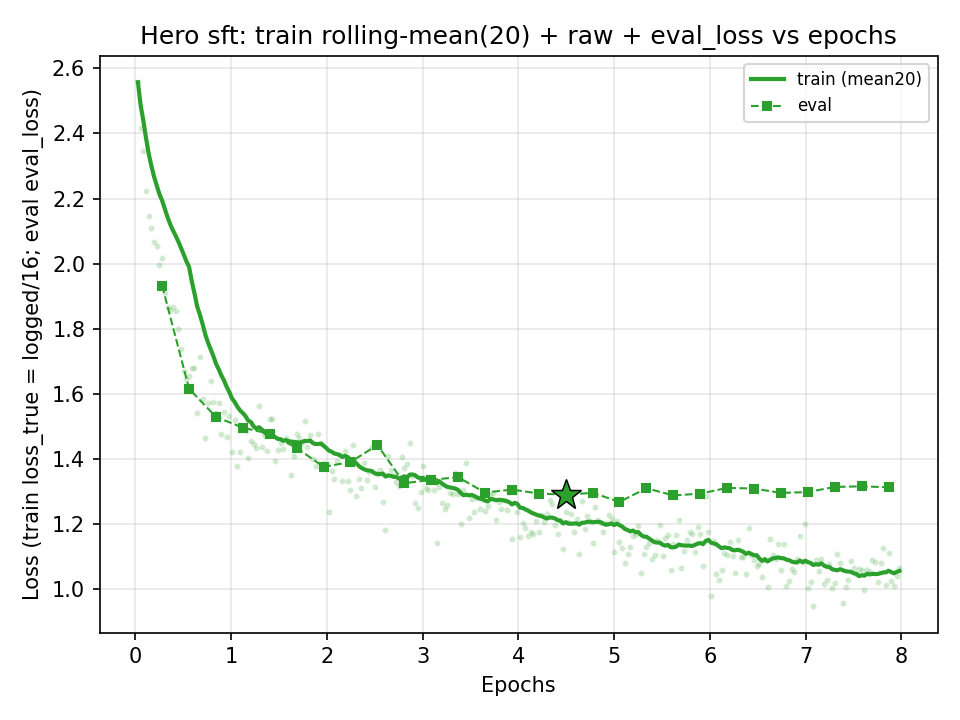
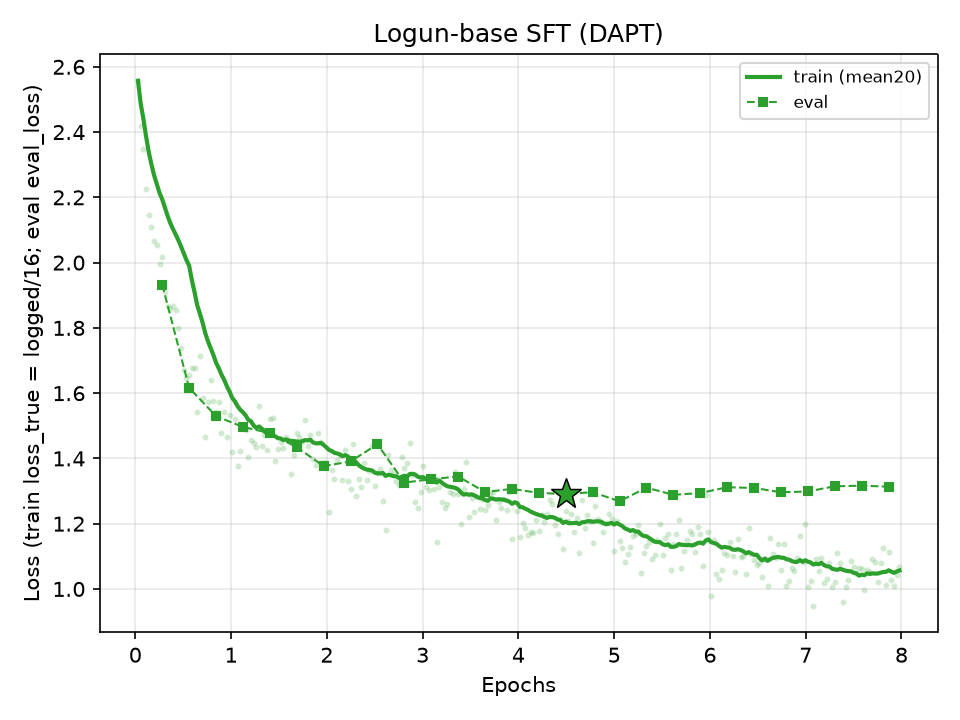
fixed plots

diff --git a/logun/extra/plot_sft.py b/logun/extra/plot_sft.py
@@ -13,6 +13,7 @@ Matplotlib (+numpy) only. Run from anywhere: python logun/extra/plot_sft.py
 """
 import json
 import math
+import sys
 from pathlib import Path
 
 import matplotlib
@@ -31,6 +32,12 @@ GA, W = 16, 20  # grad-accum divisor, rolling-mean window
 OUT = Path(__file__).resolve().parent
 OUT.mkdir(parents=True, exist_ok=True)
 
+# Lineage switch: logun = DAPT base + sft-*; norberto = no-DAPT base + norberto/sft-*
+LINEAGES = {
+    "logun": {"prefix": "", "title": "Logun-base SFT (DAPT)", "outPrefix": ""},
+    "norberto": {"prefix": "norberto/", "title": "NorBERTo-base SFT (no DAPT)", "outPrefix": "norberto-"},
+}
+
 
 def roll(xs, w):
     return [sum(xs[max(0, i - w + 1):i + 1]) / len(xs[max(0, i - w + 1):i + 1])
@@ -44,15 +51,21 @@ def star(ax, x, y, c, size=15):
 
 
 def main():
+    lineage = sys.argv[1] if len(sys.argv) > 1 else "logun"
+    if lineage not in LINEAGES:
+        raise SystemExit(f"unknown lineage {lineage!r}; expected 'logun' or 'norberto'")
+    cfg = LINEAGES[lineage]
+    prefix, title, outPrefix = cfg["prefix"], cfg["title"], cfg["outPrefix"]
+
     allf = list_repo_files(REPO)
     data = {}
     for run in RUNS:  # latest checkpoint per run
         nums = sorted({int(p.split("checkpoint-")[1].split("/")[0])
                        for p in allf
-                       if p.startswith(run + "/checkpoint-") and "/trainer_state.json" in p})
+                       if p.startswith(prefix + run + "/checkpoint-") and "/trainer_state.json" in p})
         for ck in sorted(nums, reverse=True):
             try:
-                p = hf_hub_download(REPO, f"{run}/checkpoint-{ck}/trainer_state.json")
+                p = hf_hub_download(REPO, f"{prefix}{run}/checkpoint-{ck}/trainer_state.json")
                 data[run] = json.load(open(p)).get("log_history", [])
                 print(f"{run}: ckpt-{ck} n_log={len(data[run])}", flush=True)
                 break
@@ -80,17 +93,17 @@ def main():
     for run in RUNS:
         _, evf, _, best, _ = parsed[run]
         xs, ys = zip(*evf)
-        ax.plot(xs, ys, marker="o", markersize=3, label=LABELS[run], color=COLORS[run])
+        ax.plot(xs, ys, marker="o", markersize=3, label=f"{LABELS[run]} (best {best[1]:.4f})", color=COLORS[run])
         star(ax, best[0], best[1], COLORS[run])
     ax.set_xlabel("Optimizer steps")
     ax.set_ylabel("Eval macro-F1")
-    ax.set_title("Eval macro-F1 vs steps (sft q>=0.5/0.6/0.7/0.8)")
+    ax.set_title(title)
     ax.legend(fontsize=8)
     ax.grid(True, alpha=0.3)
     fig.tight_layout()
-    fig.savefig(OUT / "f1_vs_steps.png", dpi=150)
+    fig.savefig(OUT / (outPrefix + "f1_vs_steps.png"), dpi=150)
     plt.close(fig)
-    print("saved f1_vs_steps.png", flush=True)
+    print(f"saved {outPrefix}f1_vs_steps.png", flush=True)
 
     # (2) rolling-mean-20 train loss/16 + faint raw + eval_loss markers + best stars, LINEAR y
     fig, ax = plt.subplots()
@@ -109,13 +122,13 @@ def main():
             star(ax, be[0], sy, c)
     ax.set_xlabel("Epochs")
     ax.set_ylabel("Loss (train loss_true = logged/16; eval eval_loss)")
-    ax.set_title("Train rolling-mean(20) + raw + eval_loss vs epochs")
+    ax.set_title(title)
     ax.legend(fontsize=8)
     ax.grid(True, alpha=0.3)
     fig.tight_layout()
-    fig.savefig(OUT / "loss_vs_epochs_smooth.png", dpi=150)
+    fig.savefig(OUT / (outPrefix + "loss_vs_epochs_smooth.png"), dpi=150)
     plt.close(fig)
-    print("saved loss_vs_epochs_smooth.png", flush=True)
+    print(f"saved {outPrefix}loss_vs_epochs_smooth.png", flush=True)
 
     # (3) best eval-F1 vs train rows, log-scale x, log-linear fit on first three
     xs3 = [math.log10(NROWS[r]) for r in RUNS[:3]]
@@ -148,13 +161,13 @@ def main():
     ax.set_xscale("log")
     ax.set_xlabel("Train rows N (log-scale x)")
     ax.set_ylabel("Best eval macro-F1")
-    ax.set_title(f"Scaling: best eval macro-F1 vs train rows (champion: {LABELS[champ]})")
+    ax.set_title(title)
     ax.legend(fontsize=8)
     ax.grid(True, which="both", alpha=0.3)
     fig.tight_layout()
-    fig.savefig(OUT / "scaling_best_f1_vs_N.png", dpi=150)
+    fig.savefig(OUT / (outPrefix + "scaling_best_f1_vs_N.png"), dpi=150)
     plt.close(fig)
-    print("saved scaling_best_f1_vs_N.png", flush=True)
+    print(f"saved {outPrefix}scaling_best_f1_vs_N.png", flush=True)
 
 
 if __name__ == "__main__":

diff --git a/logun/extra/plot_hero.py b/logun/extra/plot_hero.py
@@ -1,5 +1,6 @@
 """Plot live hero-extension run (Hub heitorrosa/logun-base folder sft/). Read-only, single pass."""
 import json
+import sys
 from pathlib import Path
 
 import matplotlib
@@ -8,7 +9,15 @@ import matplotlib.pyplot as plt
 from huggingface_hub import hf_hub_download, list_repo_files
 
 REPO = "heitorrosa/logun-base"
-RUN = "sft"
+LINEAGES = {
+    "logun": {"run": "sft", "title": "Logun-base SFT (DAPT)", "outPrefix": ""},
+    "norberto": {"run": "norberto/sft", "title": "NorBERTo-base SFT (no DAPT)", "outPrefix": "norberto-"},
+}
+_key = sys.argv[1] if len(sys.argv) > 1 else "logun"
+if _key not in LINEAGES:
+    raise SystemExit(f"unknown lineage {_key!r}; expected 'logun' or 'norberto'")
+LINEAGE = LINEAGES[_key]
+RUN = LINEAGE["run"]
 GA, W = 16, 20
 OUT = Path(__file__).resolve().parent
 OUT.mkdir(parents=True, exist_ok=True)
@@ -30,7 +39,7 @@ def main():
     nums = sorted({int(p.split("checkpoint-")[1].split("/")[0])
                    for p in allf
                    if p.startswith(RUN + "/checkpoint-") and "/trainer_state.json" in p})
-    assert nums, "no checkpoints found under sft/"
+    assert nums, f"no checkpoints found under {RUN}/"
     hist = None
     ck_used = None
     for ck in sorted(nums, reverse=True):  # single read pass, latest first
@@ -38,10 +47,10 @@ def main():
             p = hf_hub_download(REPO, f"{RUN}/checkpoint-{ck}/trainer_state.json")
             hist = json.load(open(p)).get("log_history", [])
             ck_used = ck
-            print(f"sft: ckpt-{ck} n_log={len(hist)}", flush=True)
+            print(f"{RUN}: ckpt-{ck} n_log={len(hist)}", flush=True)
             break
         except Exception as e:
-            print(f"skip sft/{ck}: {type(e).__name__}")
+            print(f"skip {RUN}/{ck}: {type(e).__name__}")
     assert hist, "failed to read hero trainer_state.json"
     tr = sorted([(e["step"], e["loss"] / GA, e.get("epoch")) for e in hist
                  if "loss" in e and "eval_loss" not in e])
@@ -50,21 +59,22 @@ def main():
     evl = sorted([(e.get("epoch"), e.get("eval_loss"), e.get("step")) for e in hist
                   if e.get("eval_loss") is not None and e.get("epoch") is not None])
     best = max(evf, key=lambda t: t[1])
-    print(f"BEST hero(ckpt-{ck_used}): step={best[0]} macroF1={best[1]:.4f} "
+    print(f"BEST hero[{RUN}](ckpt-{ck_used}): step={best[0]} macroF1={best[1]:.4f} "
           f"n_train={len(tr)} n_eval={len(evf)}", flush=True)
     print(f"MIN train_loss_true={min(t[1] for t in tr):.4f} "
           f"min_eval_loss={min(t[1] for t in evl):.4f}" if evl else "", flush=True)
 
     fig, ax = plt.subplots()  # (a) F1 vs steps, linear x
     xs, ys = zip(*evf)
-    ax.plot(xs, ys, marker="o", markersize=3, color="C2")
+    ax.plot(xs, ys, marker="o", markersize=3, color="C2", label=f"best macro-F1 {best[1]:.4f}")
     star(ax, best[0], best[1], "C2")
     ax.set_xlabel("Optimizer steps")
     ax.set_ylabel("Eval macro-F1")
-    ax.set_title(f"Hero sft (q>=0.7 resumed, ckpt-{ck_used}): eval macro-F1 vs steps")
+    ax.set_title(LINEAGE["title"])
     ax.grid(True, alpha=0.3)
+    ax.legend(fontsize=8)
     fig.tight_layout()
-    fig.savefig(OUT / "hero_f1_vs_steps.png", dpi=150)
+    fig.savefig(OUT / (LINEAGE["outPrefix"] + "hero_f1_vs_steps.png"), dpi=150)
     plt.close(fig)
     print("saved hero_f1_vs_steps.png", flush=True)
 
@@ -80,11 +90,11 @@ def main():
         star(ax, m[0][0], m[0][1], "C2")
     ax.set_xlabel("Epochs")
     ax.set_ylabel("Loss (train loss_true = logged/16; eval eval_loss)")
-    ax.set_title(f"Hero sft: train rolling-mean({W}) + raw + eval_loss vs epochs")
+    ax.set_title(LINEAGE["title"])
     ax.legend(fontsize=8)
     ax.grid(True, alpha=0.3)
     fig.tight_layout()
-    fig.savefig(OUT / "hero_loss_vs_epochs_smooth.png", dpi=150)
+    fig.savefig(OUT / (LINEAGE["outPrefix"] + "hero_loss_vs_epochs_smooth.png"), dpi=150)
     plt.close(fig)
     print("saved hero_loss_vs_epochs_smooth.png", flush=True)
 

diff --git a/logun/PAPER.md b/logun/PAPER.md
@@ -195,12 +195,15 @@ The 2 epochs extent was a failure, but was a interesing experiment, because the 
 
 [norberto hero run plots]
 
-Afterwards, it was decided to work into the dapt-sft run for the final Logun-base model, the quality gate scaling stayed mostly the same, with the dapt version also sitting arround on >= 0.7 as its confortable threshold with [f1 and acc for it] at the hero epoch, it was also noted by the researcher that the starting base for the f1 scores at an usually higher base and closer together, approximately at 0.45 for the first recorded step with a higher slope [give the actual values for the slope and changes] than the NorBERTo-base run, this helps understand visualize the impact of DAPT in training, which helped the model absorb representations of financial speech much earlier on, allowing it to have a much faster improvement over the same compute as the NorBERTo-base model, yielding in considerable differences at the end that managed it to outperform a much larger model at the same benchmark (NorBERTo-large) that scores [f1 and acc for norberto-large]
+Afterwards, it was decided to work into the dapt-sft run for the final Logun-base model, the quality gate scaling stayed mostly the same, with the dapt version also sitting arround on >= 0.7 as its confortable threshold with 0.7214 at the hero epoch, it was also noted by the researcher that the starting base for the f1 scores at an usually higher base and closer together, approximately at 0.45 for the first recorded step with a higher slope [give the actual values for the slope and changes] than the NorBERTo-base run, this helps understand visualize the impact of DAPT in training, which helped the model absorb representations of financial speech much earlier on, allowing it to have a much faster improvement over the same compute as the NorBERTo-base model, yielding in considerable differences at the end that managed it to outperform a much larger model at the same benchmark (NorBERTo-large) that scores 0.9163
 
 [logun sft plots]
 [logun hero run plots]
 
+These changes in the representation of values and its relation between the scores can be seen in the followings plots, where the scaling of scores at the quality gate has a way bigger impact at the NorBERTo-base scaling plot (seen by the log linear fit) in comparasion to the Logun-base.
 
+[norberto scaling f1]
+[logun scaling f1]
 
 """" (DELETE)
 The final result for the model absolutely outperforms every other model in the Financial Phrasebank PT-BR benchmark, scoring 'acc': 0.8061856031417847, 'f1': 0.783324167003815, for comparasion, FinBERT PT-BR, considered by the previous benchmarks the SOTA of this class of models performed at "acc": 0.7865979671478271, "f1": 0.7510023016121212, a meaningful difference over the logun-base model post sft.

diff --git a/docs/papers.md b/docs/papers.md
@@ -1,3 +1,3 @@
 xango paper: A Macroeconomic-Adaptive Multi-Factor Scoring Architecture for Fundamental Equities Evaluation in the Brazilian Stocks Market.
-profit-correlation paper: Isolating Co-Cyclical Earnings Patterns for Fundamental Stock Correlation.
+profit-correlation paper: Isolating Co-Cyclical Earnings Patterns for Fundamental Stock Correlation and Allocation Optimizations.
 portfolio optimizer paper: Synthesizing Dynamic Fundamental Views and Idiosyncratic Co-Cyclicality within an Augmented Black-Litterman Framework for a Fundamentalist Portfolio Allocation.
